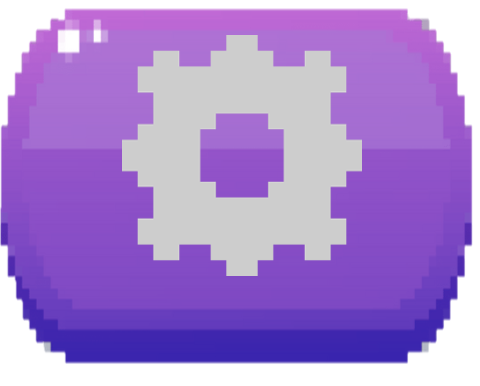
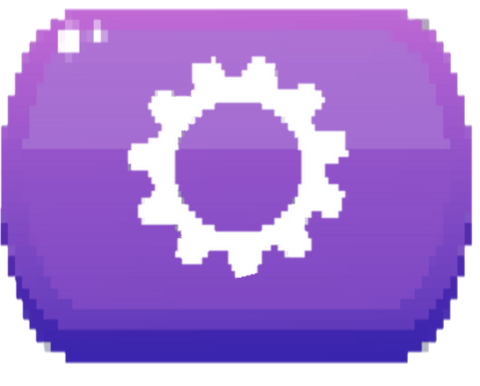
Se modificaron botones de menu}

Changed region(s): [[0.25, 0.0933, 0.7812, 0.715]]

diff --git a/src/scenes/Inicio.js b/src/scenes/Inicio.js
@@ -12,18 +12,25 @@ class Inicio extends Phaser.Scene{
         this.load.path = './assets/';
         this.load.image('fondo', 'fondo.png');  
         this.load.image('nube1','nube.png'); 
-        this.load.image(['play','cofre','conf','logo']);
+        this.load.image(['play','info','conf','logo','sound','noSound','infoCuadro']);
         this.load.audio('pasar', ['./pop.mp3']);
         this.load.audio('InicioM', ['./InicioM2.mp3']);
     }
 
     create(){
+        //Banderas
+        this.click1 = false;
+        this.click2 = false;
+        this.noSound = false;
         //Imagen de fondo
         this.fondo = this.add.image(800,370, 'fondo').scaleX=1.25;
         this.logo = this.add.image(750,100, 'logo').setScale(.25).setDepth(4);
         this.play = this.add.image(750,300, 'play').setScale(.25).setInteractive().setDepth(4);
         this.config = this.add.image(200,620, 'conf').setScale(.25).setInteractive().setDepth(4);
-        this.cofre = this.add.image(1300,620, 'cofre').setScale(.25).setInteractive().setDepth(4);
+        this.info = this.add.image(1300,620, 'info').setScale(.25).setInteractive().setDepth(4);
+        this.infoCuadro = this.add.image(1300,380, 'infoCuadro').setScale(.42).setDepth(4).setAlpha(0);
+        this.soundIcon = this.add.image(300,500, 'sound').setScale(.25).setInteractive().setDepth(4).setAlpha(0);
+        this.noSoundIcon = this.add.image(400,620, 'noSound').setScale(.25).setInteractive().setDepth(4).setAlpha(0);
         // Musica de fondo
         this.mainmenu = this.sound.add('InicioM', {loop:false,volume: 0.8});
         this.mainmenu.play();
@@ -79,17 +86,59 @@ class Inicio extends Phaser.Scene{
         //EVENTOS PARA MOUSE
         this.input.on(eventos.GAMEOBJECT_OVER,(event,gameObject)=>{
             gameObject.setScale(.3);
-            this.pasar.play();
         });
         this.input.on(eventos.GAMEOBJECT_OUT,(event,gameObject)=>{
             gameObject.setScale(.25);
         });
+        this.input.on(eventos.GAMEOBJECT_DOWN,(event,gameObject)=>{
+            if(this.noSound == false){
+                this.pasar.play();
+            }
+        });
         //EVENTO SÓLO PARA PLAY
         this.play.on(eventos.POINTER_DOWN, function () {
             console.log('Se dió click en play');
+            //this.pasar.play();
             this.scene.start("EscenaParque");
             // this.mainmenu.stop();
             this.sound.pauseAll();
+        }, this);
+        //EVENTO SÓLO PARA PLAY
+        this.config.on(eventos.POINTER_DOWN, function () {
+            console.log('Se dió click en config');
+            if(this.click1 == false)
+            {
+                this.click1 = true;
+                this.soundIcon.setAlpha(1);
+                this.noSoundIcon.setAlpha(1);
+                console.log(this.click1)
+            }else{
+                this.click1 = false;
+                this.soundIcon.setAlpha(0);
+                this.noSoundIcon.setAlpha(0);         
+            }
+        }, this);
+        //EVENTO SÓLO PARA INFO
+        this.info.on(eventos.POINTER_DOWN, function () {
+            if(this.click2 == false){
+                this.infoCuadro.setAlpha(1);
+                this.click2 = true;
+            }else{
+                this.infoCuadro.setAlpha(0);
+                this.click2 = false;
+            }
+        }, this);
+        //EVENTO SÓLO PARA SOUND
+        this.soundIcon.on(eventos.POINTER_DOWN, function () {
+            console.log('Se dió click en Sound');
+            this.noSound = false;
+            this.mainmenu.play();
+        }, this);
+        //EVENTO SÓLO PARA NO SOUND
+        this.noSoundIcon.on(eventos.POINTER_DOWN, function () {
+            console.log('Se dió click en noSound');
+            this.noSound = true;
+            this.mainmenu.stop();
         }, this);
     }
 
